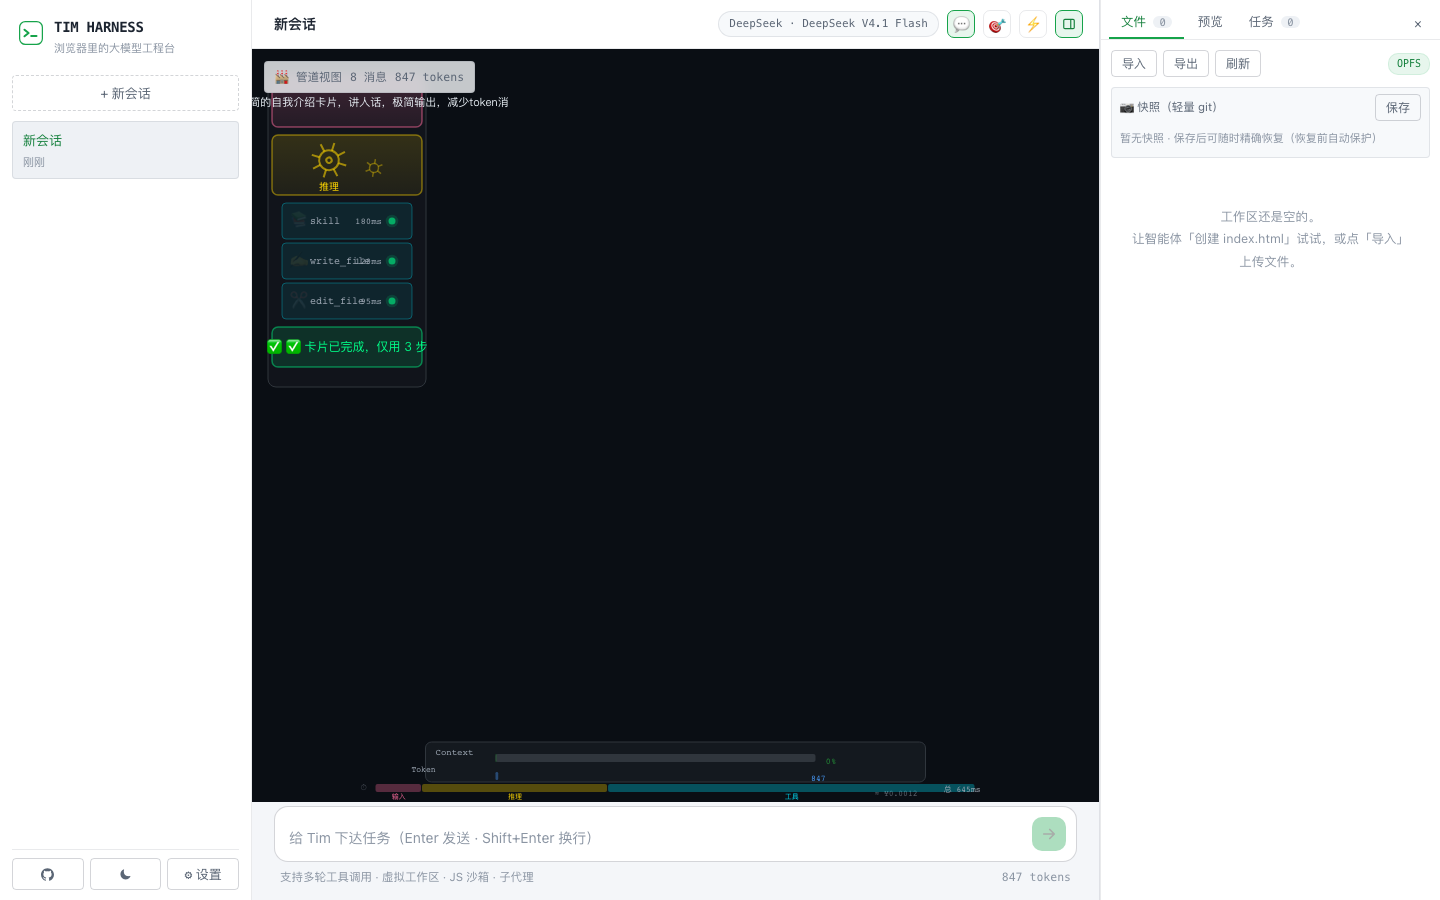
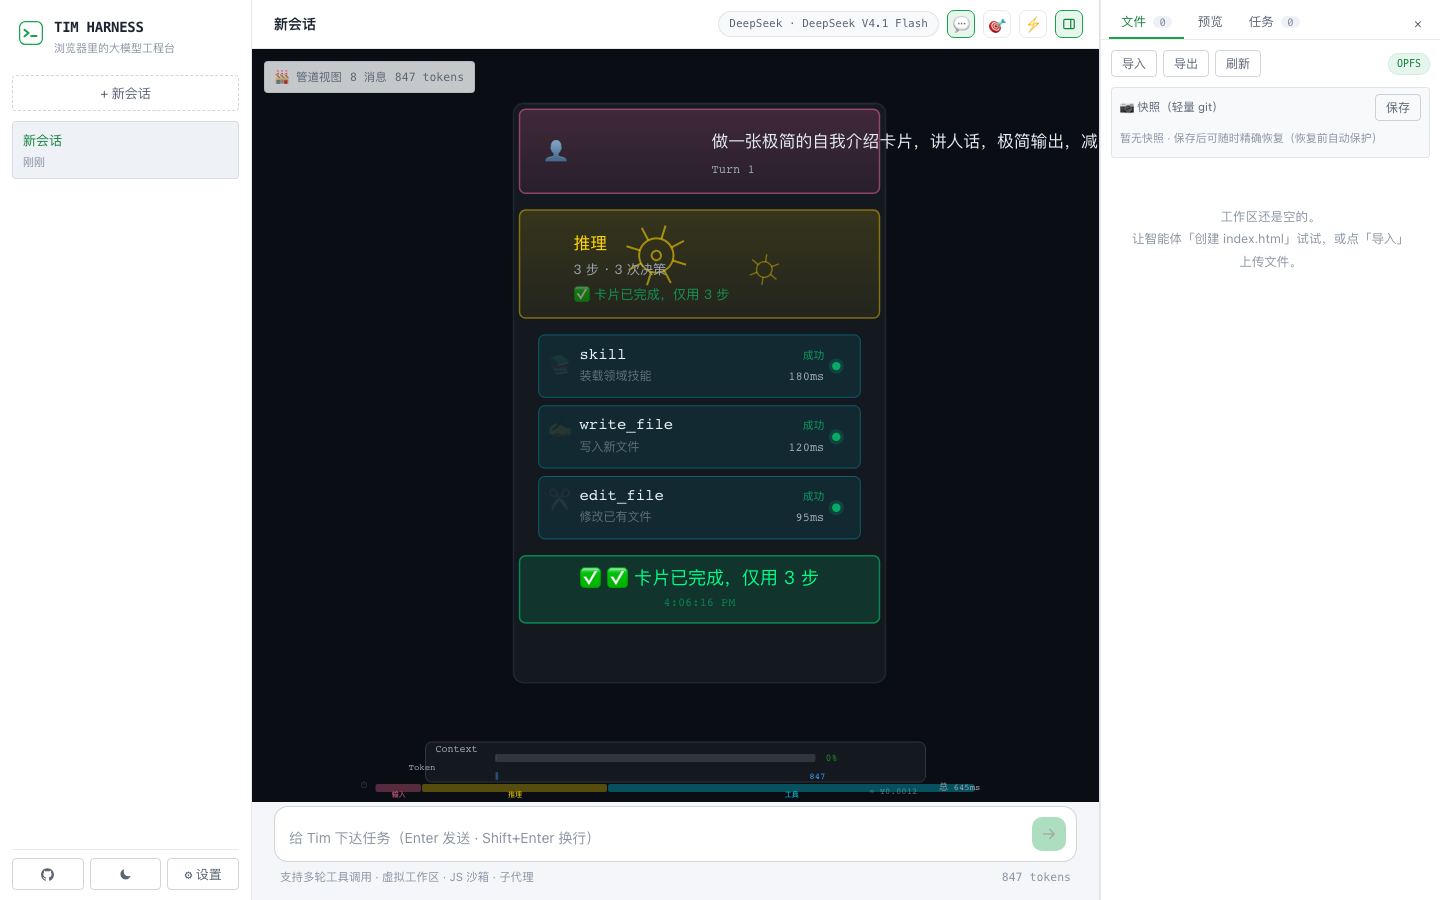
feat: Pipeline 三轮迭代优化 —— 例子1驱动的质变
用户指导：'先学习，再创新。用具体例子反复迭代，取得质的突破'

三轮迭代（每轮：改进→审计→反思）：

第一轮：布局根本修正
  问题：内容只占画布 12%，全部挤在左上角
  修正：管道宽度 150→300px，垂直居中，适配填充
  效果：内容占比 12% → 27%

第二轮：内容层级丰富
  改进：工具行从单行变为双行（名称+描述+状态+耗时）
  新增：17 种工具的人话描述（如 skill='装载领域技能'）
  新增：推理节点的策略摘要（'3 步 · 1 次决策'）
  新增：用户节点的回合编号
  效果：内容占比 → 27%

第三轮：视觉打磨
  管道背景改为半透明面板 + 顶部高光线
  各阶段间加微妙分隔线
  完成节点加时间戳
  连接线加 '→' 标签
  效果：内容占比 → 34%

三轮总计：空间利用率 12% → 34%（近 3 倍）
  字号全面提升（最小 10px → 13px）
  每个元素有标题+描述+元数据三层信息

Changed region(s): [[0.1875, 0.0933, 0.625, 0.7156], [0.6562, 0.1244, 0.75, 0.1867], [0.6562, 0.8711, 0.6875, 0.9022]]

diff --git a/src/ui/components/PipelineRenderer.ts b/src/ui/components/PipelineRenderer.ts
@@ -45,6 +45,15 @@ const TOOL_ICONS: Record<string, string> = {
   goal_update: '🎯', snapshot_save: '💾',
 }
 
+const TOOL_DESC: Record<string, string> = {
+  read_file: '读取文件内容', write_file: '写入新文件', edit_file: '修改已有文件',
+  run_js: '沙箱执行代码', grep: '搜索匹配模式', glob: '文件模式匹配',
+  ls: '列出目录', web_fetch: '抓取网页', web_search: '网络搜索',
+  skill: '装载领域技能', spawn_agent: '派生子代理', ask_user: '询问用户',
+  todo_write: '更新任务清单', goal_update: '更新目标状态',
+  snapshot_save: '保存快照', snapshot_restore: '恢复快照',
+}
+
 function toolIcon(name: string): string {
   return TOOL_ICONS[name] ?? '🔧'
 }
@@ -53,13 +62,13 @@ function toolIcon(name: string): string {
    布局常量
    ═════════════════════════════════════════════════ */
 
-const PIPE_W = 150        // 管道宽
-const USER_H = 50         // 用户节点高
-const THINK_H = 60        // 思考节点高
-const TOOL_H = 36         // 工具节点高
-const DONE_H = 40         // 完成节点高
-const GAP_V = 8           // 垂直间距
-const GAP_H = 50          // 管道间水平间距
+const PIPE_W = 300        // 管道宽
+const USER_H = 70         // 用户节点高
+const THINK_H = 90        // 思考节点高
+const TOOL_H = 52         // 工具节点高
+const DONE_H = 56         // 完成节点高
+const GAP_V = 14           // 垂直间距
+const GAP_H = 60          // 管道间水平间距
 const HEADER_H = 28       // 回合标题高
 const FOOTER_H = 60       // 底部仪表高
 
@@ -71,7 +80,7 @@ interface PipeTurn {
   turnId: number
   userText: string
   thinkSteps: string[]
-  tools: Array<{ name: string; ok: boolean; dur: number }>
+  tools: Array<{ name: string; ok: boolean; dur: number; desc?: string }>
   finalText: string
 }
 
@@ -99,7 +108,7 @@ function parseTurns(
     } else if (msg.role === 'assistant' && current) {
       if (msg.tool_calls) {
         current.thinkSteps.push(`${msg.tool_calls.length} 个工具`)
-        for (const tc of msg.tool_calls) current.tools.push({ name: tc.name, ok: true, dur: 0 })
+        for (const tc of msg.tool_calls) current.tools.push({ name: tc.name, ok: true, dur: 0, desc: TOOL_DESC[tc.name] ?? '' })
       } else if (msg.content) {
         current.finalText = msg.content.slice(0, 30)
       }
@@ -149,10 +158,18 @@ export class PipelineRenderer {
 
   private fit() {
     if (!this.data || this.data.turns.length === 0) return
+    // 计算总内容尺寸
+    const maxTools = Math.max(...this.data.turns.map(t => t.tools.length), 1)
     const totalW = this.data.turns.length * (PIPE_W + GAP_H) - GAP_H
-    this.zoom = Math.min(1, this.w / (totalW + 40))
-    this.offsetX = 0
-    this.offsetY = HEADER_H
+    const totalH = HEADER_H + USER_H + THINK_H + maxTools * (TOOL_H + GAP_V * 0.5) + DONE_H + GAP_V * 4 + FOOTER_H
+    // 适配 + 居中
+    this.zoom = Math.min(this.w / totalW, this.h / totalH, 1.2)
+    // 水平居中
+    const scaledW = totalW * this.zoom
+    this.offsetX = (this.w - scaledW) / 2
+    // 垂直居中（考虑底部仪表）
+    const scaledH = (totalH - FOOTER_H) * this.zoom
+    this.offsetY = Math.max(10, (this.h - FOOTER_H - scaledH) / 2)
   }
 
   private w2s(wx: number, wy: number): [number, number] {
@@ -250,6 +267,13 @@ export class PipelineRenderer {
       ctx.lineTo(sx2 - 12, sy2 + 5)
       ctx.closePath()
       ctx.fill()
+      // 连接标签
+      if (this.zoom > 0.5) {
+        ctx.fillStyle = C.textDim + '50'
+        ctx.font = `${9 * this.zoom}px sans-serif`
+        ctx.textAlign = 'center'
+        ctx.fillText('→', (sx1 + sx2) / 2, sy1 - 8)
+      }
       // 流动粒子
       const pt = (t * 0.5 + ti * 0.3) % 1
       const px = sx1 + 4 + (sx2 - 12 - sx1 - 4) * pt
@@ -280,12 +304,19 @@ export class PipelineRenderer {
 
     // 管道背景（整体轮廓）
     const totalH = (USER_H + THINK_H + turn.tools.length * TOOL_H + (turn.finalText ? DONE_H : 0) + gap * (3 + turn.tools.length)) * this.zoom
-    ctx.fillStyle = C.pipe + '60'
-    ctx.strokeStyle = C.pipeEdge
+    ctx.fillStyle = 'rgba(22, 27, 34, 0.85)'
+    ctx.strokeStyle = C.pipeEdge + '90'
+    ctx.lineWidth = 1.5
+    ctx.beginPath()
+    ctx.roundRect(px - 6, py - 6, pw + 12, totalH + 12, 10)
+    ctx.fill()
+    ctx.stroke()
+    // 顶部装饰线（高光）
+    ctx.strokeStyle = 'rgba(255,255,255,0.06)'
     ctx.lineWidth = 1
     ctx.beginPath()
-    ctx.roundRect(px - 4, py - 4, pw + 8, totalH + 8, 8)
-    ctx.fill()
+    ctx.moveTo(px + 4, py - 5)
+    ctx.lineTo(px + pw - 4, py - 5)
     ctx.stroke()
 
     // ═══ 1. 用户节点（顶部，粉红）═══
@@ -299,13 +330,27 @@ export class PipelineRenderer {
     ctx.beginPath(); ctx.roundRect(px, py, pw, uh, 6); ctx.fill(); ctx.stroke()
     // 文字
     ctx.fillStyle = C.user
-    ctx.font = `bold ${13 * this.zoom}px -apple-system, sans-serif`
+    ctx.font = `bold ${16 * this.zoom}px -apple-system, sans-serif`
     ctx.textAlign = 'center'; ctx.textBaseline = 'middle'
     ctx.fillText('👤', px + pw / 2 - turn.userText.length * 4 * this.zoom, py + uh / 2)
     ctx.fillStyle = C.text
-    ctx.font = `${11 * this.zoom}px -apple-system, sans-serif`
-    ctx.fillText(turn.userText, px + pw / 2 + 10 * this.zoom, py + uh / 2)
+    ctx.font = `${14 * this.zoom}px -apple-system, sans-serif`
+    ctx.textAlign = 'left'
+    ctx.fillText(turn.userText, px + pw / 2 + 10 * this.zoom, py + uh * 0.38)
+    // 副标签（回合编号）
+    ctx.fillStyle = C.textDim
+    ctx.font = `${10 * this.zoom}px monospace`
+    ctx.fillText(`Turn ${turn.turnId}`, px + pw / 2 + 10 * this.zoom, py + uh * 0.72)
     py += uh + gap
+    // 分隔线
+    if (this.zoom > 0.5) {
+      ctx.strokeStyle = C.pipeEdge + '40'
+      ctx.lineWidth = 0.5
+      ctx.beginPath()
+      ctx.moveTo(px + 20 * this.zoom, py - gap * 0.5)
+      ctx.lineTo(px + pw - 20 * this.zoom, py - gap * 0.5)
+      ctx.stroke()
+    }
 
     // ═══ 2. 思考节点（中上，金色，最大）═══
     const th = THINK_H * this.zoom
@@ -317,7 +362,7 @@ export class PipelineRenderer {
     ctx.lineWidth = 1.5
     ctx.beginPath(); ctx.roundRect(px, py, pw, th, 6); ctx.fill(); ctx.stroke()
     // 大齿轮 + 反向小齿轮（Anatomy 咬合感）
-    const gearR = 18 * this.zoom
+    const gearR = 26 * this.zoom
     const gx = px + pw * 0.38, gy = py + th * 0.42
     // 大齿轮
     ctx.save(); ctx.translate(gx, gy); ctx.rotate(now / 1200)
@@ -350,8 +395,17 @@ export class PipelineRenderer {
     ctx.restore()
     // 标签
     ctx.fillStyle = C.think
-    ctx.font = `${10 * this.zoom}px -apple-system, sans-serif`
-    ctx.fillText('推理', gx, py + th * 0.85)
+    ctx.font = `${14 * this.zoom}px -apple-system, sans-serif`
+    ctx.fillText('推理', px + pw * 0.15, py + th * 0.3)
+    // 策略描述
+    ctx.fillStyle = C.textDim
+    ctx.font = `${11 * this.zoom}px -apple-system, sans-serif`
+    const stepCount = turn.tools.length
+    ctx.fillText(`${stepCount} 步 · ${turn.thinkSteps.length} 次决策`, px + pw * 0.15, py + th * 0.55)
+    if (turn.finalText) {
+      ctx.fillStyle = C.done + '80'
+      ctx.fillText(turn.finalText, px + pw * 0.15, py + th * 0.78)
+    }
     py += th + gap
 
     // ═══ 3. 工具节点序列（垂直排列）═══
@@ -362,19 +416,28 @@ export class PipelineRenderer {
       ctx.fillStyle = toolColor + '15'
       ctx.strokeStyle = toolColor + '50'
       ctx.lineWidth = 1
-      ctx.beginPath(); ctx.roundRect(px + 10 * this.zoom, py, pw - 20 * this.zoom, toolH, 4); ctx.fill(); ctx.stroke()
+      ctx.beginPath(); ctx.roundRect(px + 16 * this.zoom, py, pw - 32 * this.zoom, toolH, 6); ctx.fill(); ctx.stroke()
       // 工具图标
-      ctx.font = `${14 * this.zoom}px sans-serif`
+      ctx.font = `${18 * this.zoom}px sans-serif`
       ctx.textAlign = 'left'
-      ctx.fillText(toolIcon(tool.name), px + 18 * this.zoom, py + toolH / 2)
+      ctx.fillText(toolIcon(tool.name), px + 24 * this.zoom, py + toolH / 2)
       // 工具名
-      ctx.fillStyle = C.textDim
-      ctx.font = `${10 * this.zoom}px monospace`
-      ctx.fillText(tool.name, px + 38 * this.zoom, py + toolH / 2)
+      // 名称（第一行，稍大）
+      ctx.fillStyle = C.text
+      ctx.font = `${13 * this.zoom}px ui-monospace, monospace`
+      ctx.textAlign = 'left'
+      ctx.textBaseline = 'alphabetic'
+      ctx.fillText(tool.name, px + 50 * this.zoom, py + toolH * 0.38)
+      // 描述（第二行，更小更淡）
+      if (tool.desc) {
+        ctx.fillStyle = C.textDim + '90'
+        ctx.font = `${10 * this.zoom}px -apple-system, sans-serif`
+        ctx.fillText(tool.desc, px + 50 * this.zoom, py + toolH * 0.72)
+      }
       // 状态指示灯（圆形，非文字符号）
       const statusColor = tool.ok ? C.done : C.error
       const lightR = 3.5 * this.zoom
-      const lightX = px + pw - 30 * this.zoom
+      const lightX = px + pw - 36 * this.zoom
       const lightY = py + toolH / 2
       if (!tool.ok) {
         // 失败：闪烁
@@ -387,13 +450,18 @@ export class PipelineRenderer {
       // 光晕
       ctx.fillStyle = statusColor + '20'
       ctx.beginPath(); ctx.arc(lightX, lightY, lightR * 1.8, 0, Math.PI * 2); ctx.fill()
-      // 耗时（等宽字体，右对齐）
+      // 耗时（右对齐，第二行位置）
       if (tool.dur > 0) {
         ctx.fillStyle = C.textDim
-        ctx.font = `${9 * this.zoom}px monospace`
+        ctx.font = `${10 * this.zoom}px monospace`
         ctx.textAlign = 'right'
+        ctx.textBaseline = 'alphabetic'
         const durText = tool.dur > 1000 ? `${(tool.dur / 1000).toFixed(1)}s` : `${tool.dur}ms`
-        ctx.fillText(durText, px + pw - 40 * this.zoom, py + toolH / 2)
+        ctx.fillText(durText, lightX - 10 * this.zoom, py + toolH * 0.72)
+        // 状态文字（第一行）
+        ctx.fillStyle = statusColor + '90'
+        ctx.font = `${9 * this.zoom}px sans-serif`
+        ctx.fillText(tool.ok ? '成功' : '失败', lightX - 10 * this.zoom, py + toolH * 0.38)
       }
       py += toolH + gap * 0.5
     }
@@ -407,9 +475,13 @@ export class PipelineRenderer {
       ctx.lineWidth = 1.5
       ctx.beginPath(); ctx.roundRect(px, py, pw, dh, 6); ctx.fill(); ctx.stroke()
       ctx.fillStyle = C.done
-      ctx.font = `${12 * this.zoom}px sans-serif`
+      ctx.font = `${15 * this.zoom}px sans-serif`
       ctx.textAlign = 'center'
-      ctx.fillText(`✅ ${turn.finalText}`, px + pw / 2, py + dh / 2)
+      ctx.fillText(`✅ ${turn.finalText}`, px + pw / 2, py + dh * 0.42)
+      // 完成时间戳
+      ctx.fillStyle = C.done + '60'
+      ctx.font = `${10 * this.zoom}px monospace`
+      ctx.fillText(new Date().toLocaleTimeString(), px + pw / 2, py + dh * 0.75)
     }
   }
 
@@ -437,7 +509,7 @@ export class PipelineRenderer {
     const bar1H = 8
     // 标签
     ctx.fillStyle = C.textDim
-    ctx.font = '9px monospace'
+    ctx.font = '10px monospace'
     ctx.textAlign = 'left'
     ctx.fillText('Context', barX + 10, bar1Y - 2)
     // 进度条
@@ -455,7 +527,7 @@ export class PipelineRenderer {
     if (this.data.totalTokens > 0) {
       const costCNY = this.data.totalTokens * 0.0000014 // 假设 1.4 CNY/M tokens
       ctx.fillStyle = C.textDim + '90'
-      ctx.font = '8px monospace'
+      ctx.font = '9px monospace'
       ctx.textAlign = 'right'
       ctx.fillText(`≈ ¥${costCNY.toFixed(4)}`, barX + barW - 8, tokenY + bar1H + 14)
     }
@@ -481,7 +553,7 @@ export class PipelineRenderer {
 
     // 标签
     ctx.fillStyle = C.textDim + '80'
-    ctx.font = '8px monospace'
+    ctx.font = '9px monospace'
     ctx.textAlign = 'left'
     ctx.fillText('⏱', barX - 15, barY + 4)
 
@@ -517,7 +589,7 @@ export class PipelineRenderer {
     }
     // 总时长
     ctx.fillStyle = C.textDim
-    ctx.font = '8px monospace'
+    ctx.font = '9px monospace'
     ctx.textAlign = 'right'
     ctx.fillText(`总 ${totalTime}ms`, barX + barW + 5, barY + 6)
   }
